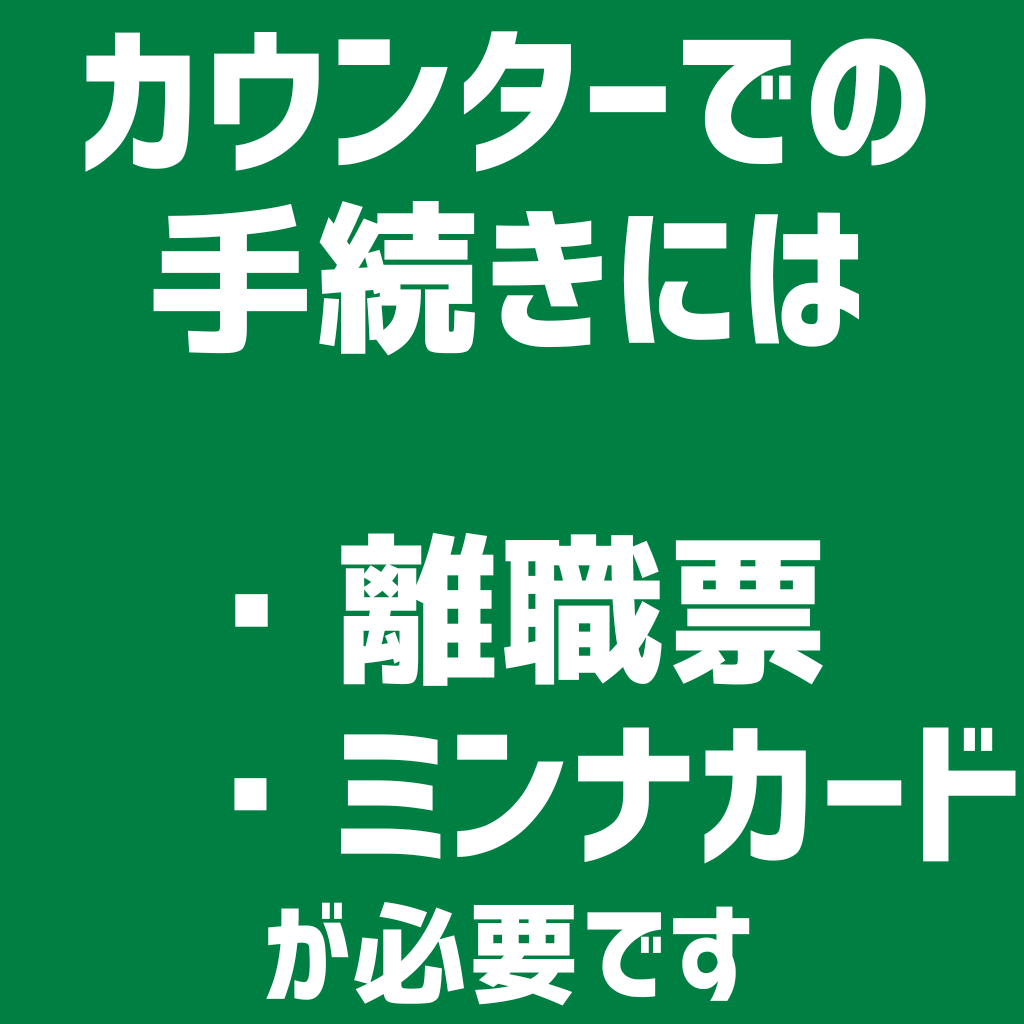
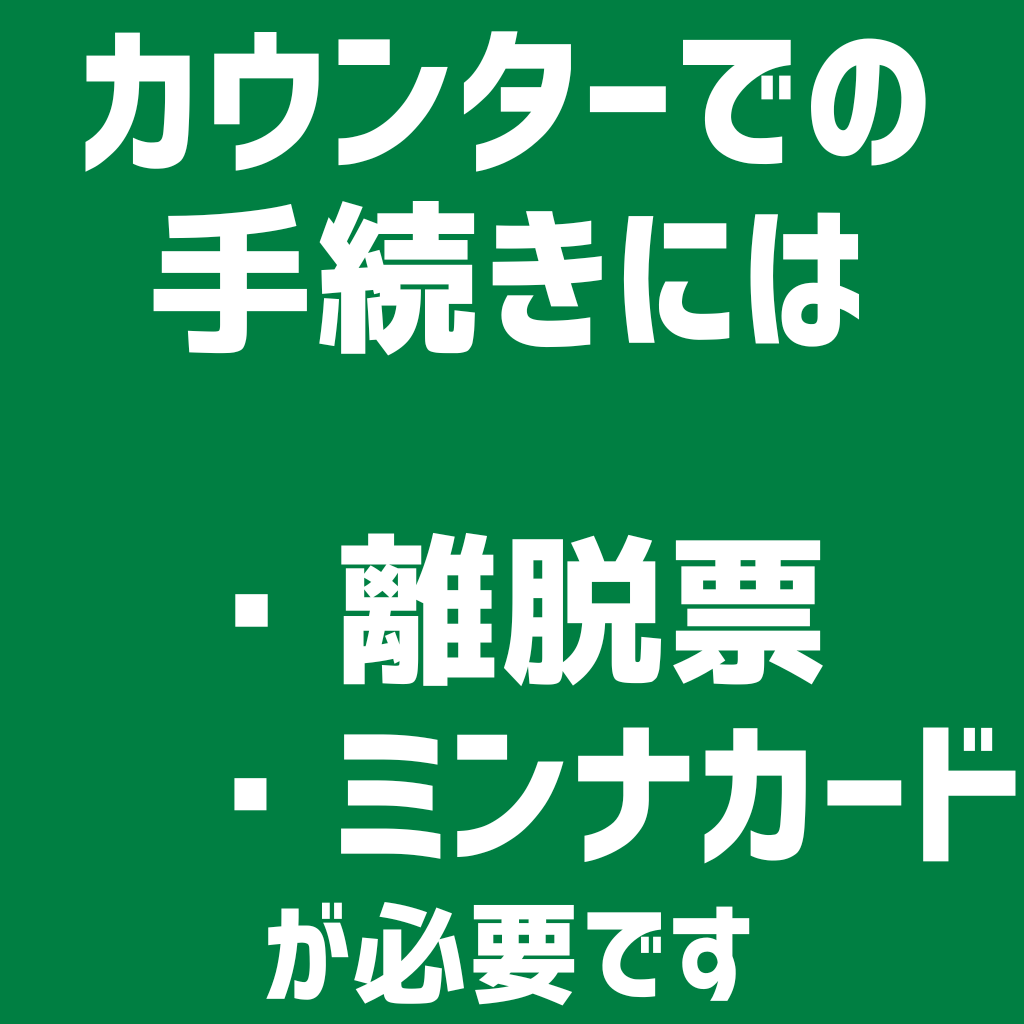
6 add

Changed region(s): [[0.4688, 0.5, 0.6562, 0.6875]]

diff --git a/escape6.html b/escape6.html
@@ -565,6 +565,12 @@
                 cookie: 'images/6/cookie.jpg',
                 pins: 'images/6/pins.jpg',
                 akusuta: 'images/6/akusuta.jpg',
+                heart:'images/6/heart.png',
+                check:'images/6/check.png',
+                house:'images/6/house.png',
+                underTriangle:'images/6/under_triangle.png',
+                star:'images/6/star.png',
+                cross:'images/6/cross.png',
             }
         };
 
@@ -1141,7 +1147,7 @@
                         );  
                         addItem('rishokuhyo');
                         removeItem('dust');
-                        updateMessage('ゴミが離職票に変化した');
+                        updateMessage('ゴミが離脱票に変化した');
 
 
                     } else if (gameState.waiting.flags.dustBoxUsable && gameState.selectedItem=='praPiece') {
@@ -1541,7 +1547,7 @@
                 coin: 'クマコイン',
                 praPiece: '破片',
                 card: 'ミンナカード',
-                rishokuhyo: '離職票',
+                rishokuhyo: '離脱票',
                 paper: 'ティッシュ',
                 wetPaper: 'ウェットティッシュ',
                 branch: '小枝',
